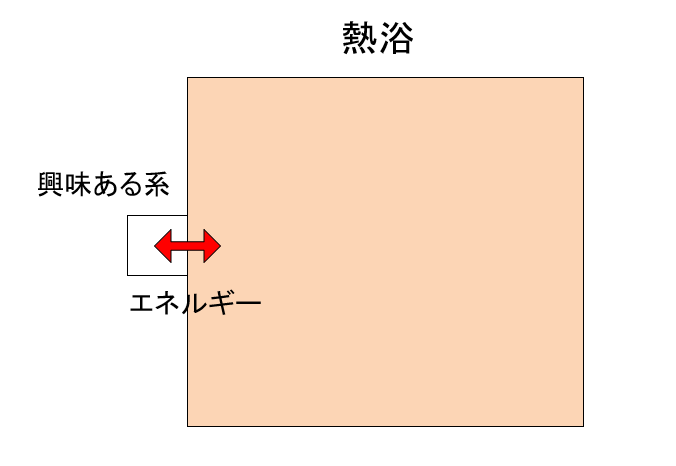
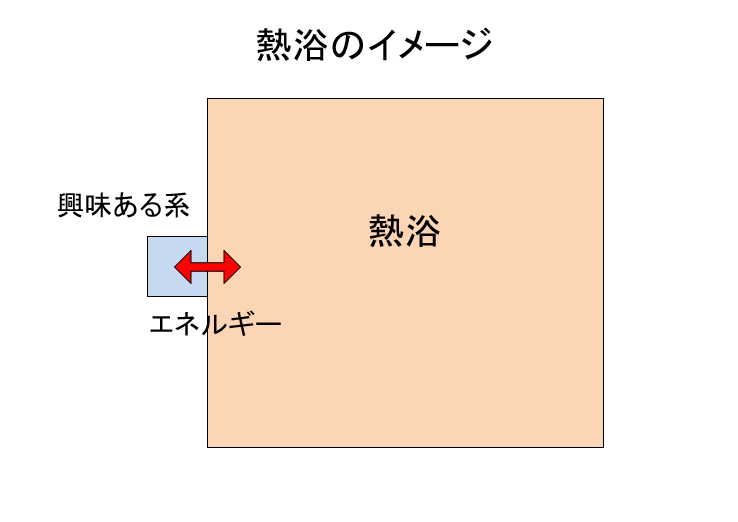
:sparkles: publish

diff --git a/articles/heatbath_thermostat.md b/articles/heatbath_thermostat.md
@@ -3,7 +3,7 @@ title: "熱浴かサーモスタットか"
 emoji: "🤖"
 type: "idea" # tech: 技術記事 / idea: アイデア
 topics: ["分子動力学法","統計力学","熱力学"]
-published: false
+published: true
 ---
 
 ## はじめに
@@ -18,12 +18,14 @@ published: false
 
 まず、熱浴(heatbath)の定義から入りましょう。興味のある系に比べて、十分に熱容量が大きく、温度がわかっている系を用意し、これを熱浴と呼びます。この熱浴と興味ある系を接触させ、エネルギーだけをやりとりできるようにします。すると、そのうち両者の温度が等しくなります。熱浴は十分に大きいので、温度は変わりません。従って、興味ある系は熱浴と同じ温度になります。これが熱浴のイメージです。
 
+![thermostat](/images/heatbath_thermostat/thermostat.png)
+
 次にサーモスタット(thermostat)です。有名なのがバイメタル型のサーモスタットです。熱膨張率の異なる金属を貼り合わせておき、ある程度以上温度が高くなると曲がり、そうでない場合はまっすぐになるように調整しておきます。この金属と電気回路を組み合わせ、サーモスタットがまっすぐになるような温度であれば電気を流し続け、温度がある程度高くなったらサーモスタットが曲がって電気が切れることで温度を一定に保つ機構を実現します。こたつの中で「カチッ」という音が聞こえたら、おそらくバイメタル型のサーモスタットの音です。
 
 雑にまとめると、
 
-* 対象となる系より圧倒的に内部自由度を持っており、接触することで勝手に温度が一定になるのが熱浴
-* 対象となる系の温度を測定し、目標温度にむけてフィードバック制御をするのがサーモスタット
+* 興味ある系より圧倒的に大きな内部自由度を持っており、接触することで勝手に温度が一定になるのが熱浴
+* 興味ある系の温度を測定し、目標温度にむけてフィードバック制御をするのがサーモスタット
 
 ということになります。
 
